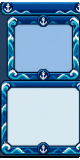
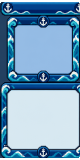
1.27.3: the card plays its Pokemon, and the new skins fit
The PKMN DATA card plays the Pokemon's own Emerald front animation through
the cart's mon_anim. The 1.27.2 skins are re-cut by what was drawn, so no
black strip down the panel, and their card text is drawn inside their
thicker frames.

Changed region(s): [[0.0, 0.0312, 1.0, 1.0]]

diff --git a/CHANGELOG.md b/CHANGELOG.md
@@ -1,5 +1,27 @@
 # Changelog
 
+## 1.27.3 -- the card plays its Pokemon, and the new skins fit
+
+- On Emerald, the PKMN DATA card in ALL BOXES plays the Pokemon's own front
+  animation each time a new one lands in it -- Pikachu's yellow flash, the
+  two-frame poses -- through the cart's mon_anim, as the summary screen
+  does. Without the cart's animation data (FireRed, LeafGreen) the picture
+  stands still, as before.
+- The ten skins added in 1.27.2 no longer show a black strip down the left
+  of the side panel: each piece is now cut by what was actually drawn and
+  fitted to the panel's shape.
+- On those skins the card's name, level and item were printed on the
+  card's thick frame; the card's text is now drawn further in, by however
+  much each skin's frame needs.
+
+## 1.27.3 -- the card plays the Pokemon's own animation
+
+- On Emerald, the PKMN DATA card in ALL BOXES plays the Pokemon's own front
+  animation each time a new one lands in it -- Pikachu's yellow flash, the
+  two-frame poses -- through the cart's mon_anim, as the summary screen
+  does. Where the cart has no animation data (FireRed, LeafGreen) the
+  picture stands still, as before.
+
 ## 1.27.2 -- ALL BOXES grows up, and ten more skins
 
 On Ruby, Sapphire and Emerald:
